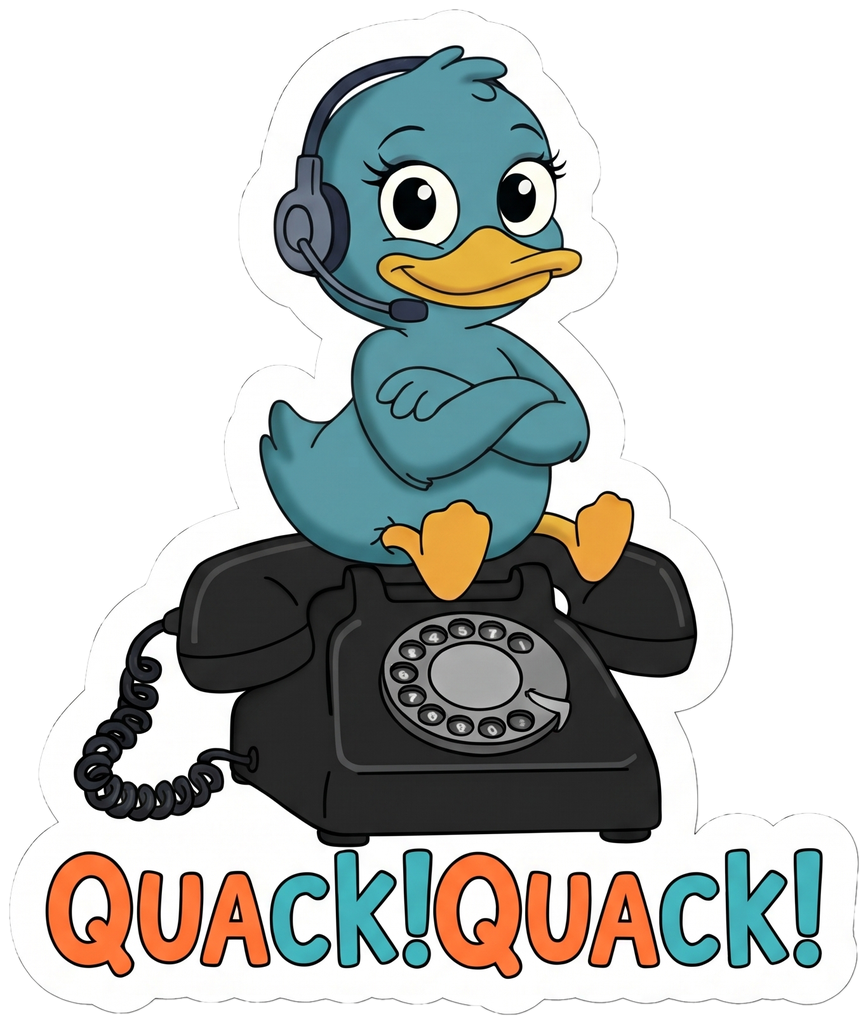
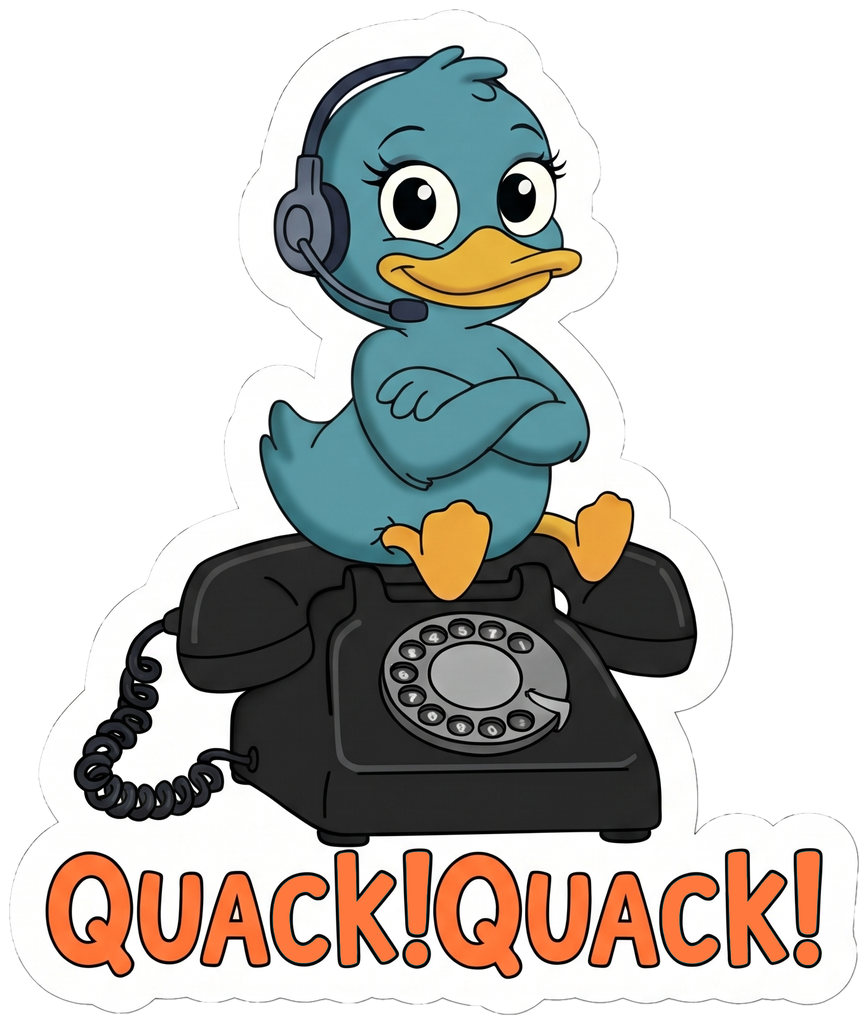
Quackers sticker: IceCat's color-corrected version
Claude-Session: https://claude.ai/code/session_01RKrCQvFBNufFDHpiXxHSH7

Changed region(s): [[0.7465, 0.8125, 0.9643, 0.9375], [0.3111, 0.8125, 0.4977, 0.9375]]

diff --git a/public/index.html b/public/index.html
@@ -506,7 +506,7 @@
       <figure class="st hud"><img src="stickers/101-1-the-butt.png" width="1024" height="984" alt="101.1 The Butt sticker" loading="lazy"><figcaption><b>101.1 The Butt</b><a class="btn sm" href="stickers/101-1-the-butt.png" download="callective-sticker-101-1-the-butt.png">Download</a></figcaption></figure>
       <figure class="st hud"><img src="stickers/pla-bell-ding.png" width="1024" height="960" alt="The Callective PLA bell sticker: an angry ding-ding desk bell in PLA blue, yellow and red" loading="lazy"><figcaption><b>PLA bell: The Callective</b><a class="btn sm" href="stickers/pla-bell-ding.png" download="callective-sticker-pla-bell.png">Download</a></figcaption></figure>
       <figure class="st hud"><img src="stickers/caw.png" width="710" height="1024" alt="Caw sticker" loading="lazy"><figcaption><b>Caw</b><a class="btn sm" href="stickers/caw.png" download="callective-sticker-caw.png">Download</a></figcaption></figure>
-      <figure class="st hud"><img src="stickers/quackers.png" width="868" height="1024" alt="Quackers sticker" loading="lazy"><figcaption><b>Quackers</b><a class="btn sm" href="stickers/quackers.png" download="callective-sticker-quackers.png">Download</a></figcaption></figure>
+      <figure class="st hud"><img src="stickers/quackers.png?v=2" width="868" height="1024" alt="Quackers sticker" loading="lazy"><figcaption><b>Quackers</b><a class="btn sm" href="stickers/quackers.png?v=2" download="callective-sticker-quackers.png">Download</a></figcaption></figure>
     </div>
     </div>
   </div>

diff --git a/src/page.html b/src/page.html
@@ -490,7 +490,7 @@
       <figure class="st hud"><img src="stickers/101-1-the-butt.png" width="1024" height="984" alt="101.1 The Butt sticker" loading="lazy"><figcaption><b>101.1 The Butt</b><a class="btn sm" href="stickers/101-1-the-butt.png" download="callective-sticker-101-1-the-butt.png">Download</a></figcaption></figure>
       <figure class="st hud"><img src="stickers/pla-bell-ding.png" width="1024" height="960" alt="The Callective PLA bell sticker: an angry ding-ding desk bell in PLA blue, yellow and red" loading="lazy"><figcaption><b>PLA bell: The Callective</b><a class="btn sm" href="stickers/pla-bell-ding.png" download="callective-sticker-pla-bell.png">Download</a></figcaption></figure>
       <figure class="st hud"><img src="stickers/caw.png" width="710" height="1024" alt="Caw sticker" loading="lazy"><figcaption><b>Caw</b><a class="btn sm" href="stickers/caw.png" download="callective-sticker-caw.png">Download</a></figcaption></figure>
-      <figure class="st hud"><img src="stickers/quackers.png" width="868" height="1024" alt="Quackers sticker" loading="lazy"><figcaption><b>Quackers</b><a class="btn sm" href="stickers/quackers.png" download="callective-sticker-quackers.png">Download</a></figcaption></figure>
+      <figure class="st hud"><img src="stickers/quackers.png?v=2" width="868" height="1024" alt="Quackers sticker" loading="lazy"><figcaption><b>Quackers</b><a class="btn sm" href="stickers/quackers.png?v=2" download="callective-sticker-quackers.png">Download</a></figcaption></figure>
     </div>
     </div>
   </div>
